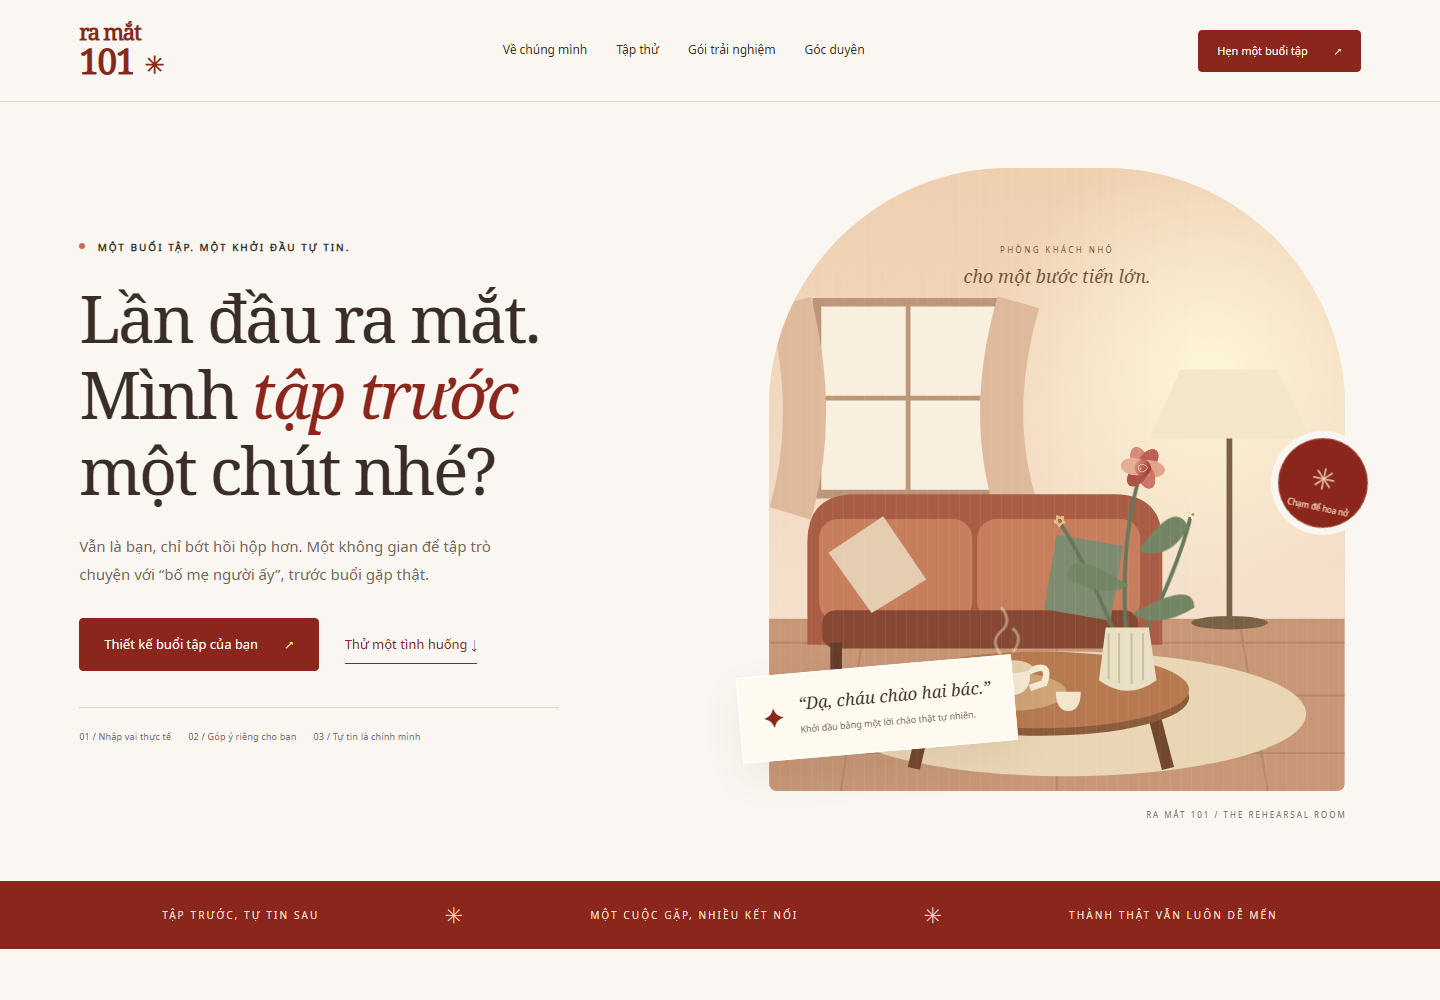
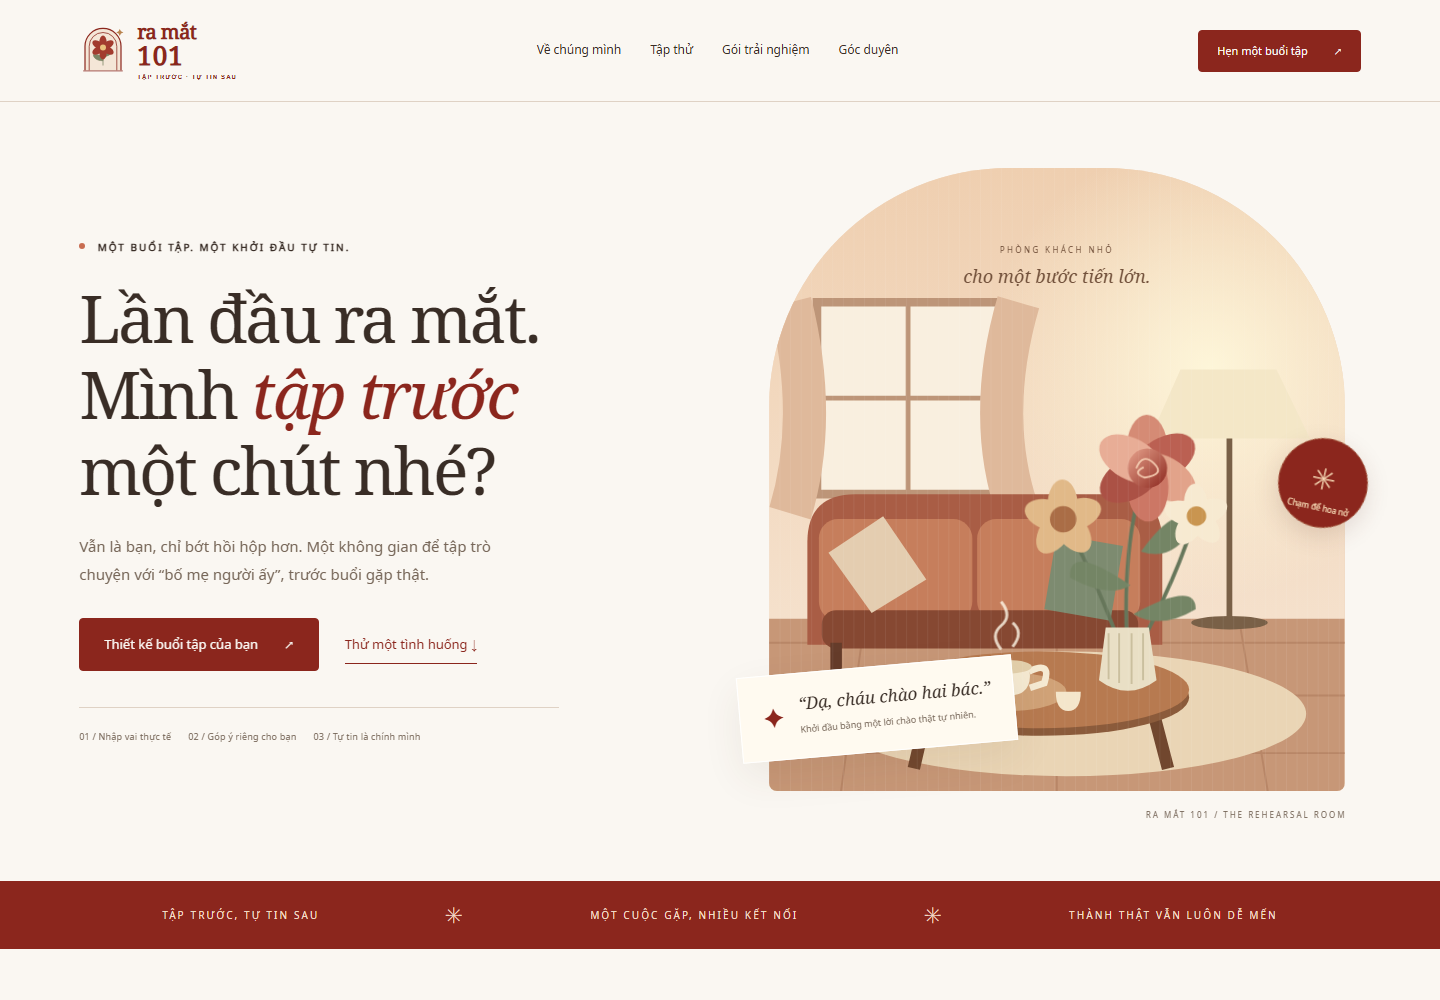
Refine floral brand identity and accessible interface motion

diff --git a/index.html b/index.html
@@ -1,7 +1,7 @@
 <!doctype html>
-<html lang="vi"><head><meta charset="utf-8"><meta name="viewport" content="width=device-width,initial-scale=1"><meta name="theme-color" content="#8b261d"><title>Ra Mắt 101 — Tập trước, tự tin sau</title><meta name="description" content="Tập ra mắt gia đình người yêu với kịch bản cá nhân hóa, diễn viên nhập vai và coaching. Khám phá buổi tập cùng Ra Mắt 101."><link rel="icon" href="assets/flower.svg" type="image/svg+xml"><link rel="stylesheet" href="style.css"><script type="module" src="app.js"></script></head>
+<html lang="vi"><head><meta charset="utf-8"><meta name="viewport" content="width=device-width,initial-scale=1"><meta name="theme-color" content="#8b261d"><title>Ra Mắt 101 — Tập trước, tự tin sau</title><meta name="description" content="Tập ra mắt gia đình người yêu với kịch bản cá nhân hóa, diễn viên nhập vai và coaching. Khám phá buổi tập cùng Ra Mắt 101."><link rel="icon" href="assets/brand-mark.svg" type="image/svg+xml"><link rel="stylesheet" href="style.css"><link rel="stylesheet" href="polish.css"><script type="module" src="app.js"></script></head>
 <body><a class="skip" href="#main">Đến nội dung chính</a>
-<header class="header"><a class="brand" href="#" aria-label="Ra Mắt 101 — trang đầu">ra mắt<span>101<span class="brand-flower">✳</span></span></a><nav aria-label="Điều hướng chính"><a href="#cau-chuyen">Về chúng mình</a><a href="#trai-nghiem">Tập thử</a><a href="#goi-tap">Gói trải nghiệm</a><a href="#goc-nho">Góc duyên</a></nav><a class="button small" href="#lien-he">Hẹn một buổi tập <span>↗</span></a><button class="menu" aria-label="Mở menu" aria-expanded="false">☰</button></header>
+<header class="header"><a class="brand" href="#" aria-label="Ra Mắt 101 — trang đầu"><img class="brand-mark" src="assets/brand-mark.svg" alt="" width="48" height="53"><span class="brand-wordmark">ra mắt<span>101<small>TẬP TRƯỚC · TỰ TIN SAU</small></span></span></a><nav aria-label="Điều hướng chính"><a href="#cau-chuyen">Về chúng mình</a><a href="#trai-nghiem">Tập thử</a><a href="#goi-tap">Gói trải nghiệm</a><a href="#goc-nho">Góc duyên</a></nav><a class="button small" href="#lien-he">Hẹn một buổi tập <span>↗</span></a><button class="menu" aria-label="Mở menu" aria-expanded="false">☰</button></header>
 <main id="main">
 <section class="hero" aria-labelledby="hero-title"><div class="hero-copy"><p class="eyebrow"><span class="dot"></span> MỘT BUỔI TẬP. MỘT KHỞI ĐẦU TỰ TIN.</p><h1 id="hero-title">Lần đầu ra mắt.<br>Mình <em>tập trước</em><br>một chút nhé?</h1><p class="lead">Vẫn là bạn, chỉ bớt hồi hộp hơn. Một không gian để tập trò chuyện với “bố mẹ người ấy”, trước buổi gặp thật.</p><div class="actions"><button class="button" data-book="standard">Thiết kế buổi tập của bạn <span>↗</span></button><a class="text-link" href="#trai-nghiem">Thử một tình huống <span>↓</span></a></div><div class="hero-notes"><span>01 / Nhập vai thực tế</span><span>02 / Góp ý riêng cho bạn</span><span>03 / Tự tin là chính mình</span></div></div>
 <div class="hero-art"><div class="art-arch"><div class="art-label">PHÒNG KHÁCH NHỎ<br><b>cho một bước tiến lớn.</b></div><svg class="room" viewBox="0 0 600 650" role="img" aria-label="Minh họa phòng khách ấm áp, bộ ấm trà và bình hoa đang nở"><defs><linearGradient id="wall" x2="0" y2="1"><stop stop-color="#efcfb0"/><stop offset="1" stop-color="#f7e7d6"/></linearGradient><linearGradient id="petal" x2="1" y2="1"><stop stop-color="#e7a38d"/><stop offset="1" stop-color="#8b261d"/></linearGradient><pattern id="lines" width="11" height="11" patternUnits="userSpaceOnUse"><path d="M0 0V11" stroke="#ffffff" stroke-opacity=".15"/></pattern><radialGradient id="light"><stop stop-color="#fff9dc" stop-opacity=".9"/><stop offset="1" stop-color="#fff9dc" stop-opacity="0"/></radialGradient></defs><rect width="600" height="650" fill="url(#wall)"/><circle cx="460" cy="210" r="240" fill="url(#light)"/><path d="M50 140h190v200H50z" fill="#f9efdf" stroke="#bd9578" stroke-width="9"/><path d="M145 140v200M50 240h190" stroke="#bd9578" stroke-width="5"/><path d="M22 140q30 120 0 220M260 140q-35 120 0 220" stroke="#dfb99b" stroke-width="45" fill="none"/><path d="M0 470h600v180H0" fill="#c79777"/><path d="M0 495h600M0 550h600M0 610h600M100 470l-25 180M300 470v180M490 470l30 180" stroke="#b88667" stroke-width="2"/><ellipse cx="310" cy="569" rx="250" ry="65" fill="#ead5b5"/><path d="M40 390q0-50 50-50h270q50 0 50 50v107H40z" fill="#a95d45"/><rect x="52" y="366" width="160" height="106" rx="20" fill="#c67e5c"/><rect x="217" y="366" width="170" height="106" rx="20" fill="#c67e5c"/><rect x="55" y="461" width="330" height="40" rx="15" fill="#864832"/><path d="M70 495v40M365 495v40" stroke="#653c2a" stroke-width="12"/><path d="M62 401l57-38 45 66-57 35z" fill="#e4cdb0"/><path d="M300 382l69 12-13 78-69-12z" fill="#7d8b70"/><path d="M480 260v210" stroke="#796047" stroke-width="6"/><path d="M429 210h100l35 72H397z" fill="#f4e7c7"/><ellipse cx="480" cy="474" rx="40" ry="7" fill="#796047"/><path d="M166 561l-15 65M399 561l17 65" stroke="#71472e" stroke-width="13"/><ellipse cx="283" cy="552" rx="155" ry="40" fill="#8b5b3b"/><ellipse cx="283" cy="544" rx="155" ry="40" fill="#b77a50"/><ellipse cx="251" cy="546" rx="59" ry="20" fill="#d0a277"/><path d="M226 520h45q6 30-22 30t-23-30" fill="#f5ead2"/><path d="M271 525q24-12 16 12l-15 5" stroke="#f5ead2" stroke-width="7" fill="none"/><ellipse cx="249" cy="520" rx="25" ry="7" fill="#e3d0ac"/><path d="M299 546h26q0 20-13 20t-13-20" fill="#f4e6cb"/><path d="M187 545h25q0 20-12 20t-13-20" fill="#f4e6cb"/><g class="steam" fill="none" stroke="#fff9e9" stroke-width="3" opacity=".8"><path d="M242 508q-12-15 0-25t0-25"/><path d="M254 505q12-15 0-25"/></g><g class="botanical"><path d="M375 522q-10-130 20-210M375 520q-45-120-70-155M375 520q55-100 70-160" fill="none" stroke="#66765a" stroke-width="4"/><path d="M377 435q-65-45-63-8 40 22 63 8M388 400q40-55 53-24-20 35-53 24M380 465q65-35 65-5-37 22-65 5" fill="#748565"/><g class="flower flower-one" transform="translate(395 313)"><g class="bloom"><ellipse rx="22" ry="37" transform="rotate(0) translate(0 -20)" fill="#d58b75"/><ellipse rx="22" ry="37" transform="rotate(60) translate(0 -20)" fill="#bb6052"/><ellipse rx="22" ry="37" transform="rotate(120) translate(0 -20)" fill="#e2a38a"/><ellipse rx="22" ry="37" transform="rotate(180) translate(0 -20)" fill="#cc7765"/><ellipse rx="22" ry="37" transform="rotate(240) translate(0 -20)" fill="#ab5145"/><ellipse rx="22" ry="37" transform="rotate(300) translate(0 -20)" fill="#e8ad96"/><circle r="21" fill="url(#petal)"/><path d="M-12 0q7-17 19-5t-10 15q-14-5-1-11" fill="none" stroke="#f2c7ac" stroke-width="2"/></g></g><g class="flower flower-two" transform="translate(307 366) scale(.72)"><g class="bloom" fill="#e1b988"><ellipse rx="23" ry="40" transform="rotate(0) translate(0 -20)"/><ellipse rx="23" ry="40" transform="rotate(72) translate(0 -20)"/><ellipse rx="23" ry="40" transform="rotate(144) translate(0 -20)"/><ellipse rx="23" ry="40" transform="rotate(216) translate(0 -20)"/><ellipse rx="23" ry="40" transform="rotate(288) translate(0 -20)"/><circle r="20" fill="#aa6d46"/></g></g><g class="flower flower-three" transform="translate(446 363) scale(.62)"><g class="bloom" fill="#f7ead1"><ellipse rx="22" ry="40" transform="rotate(0) translate(0 -20)"/><ellipse rx="22" ry="40" transform="rotate(72) translate(0 -20)"/><ellipse rx="22" ry="40" transform="rotate(144) translate(0 -20)"/><ellipse rx="22" ry="40" transform="rotate(216) translate(0 -20)"/><ellipse rx="22" ry="40" transform="rotate(288) translate(0 -20)"/><circle r="18" fill="#c99550"/></g></g></g><path d="M351 479h45l8 55q-30 22-60 0z" fill="#e9dfc5"/><path d="M354 485v48M365 485v52M378 485v53M390 485v49" stroke="#cabf9e" stroke-width="2"/><rect width="600" height="650" fill="url(#lines)" pointer-events="none"/></svg></div><div class="floating-note"><span>✦</span><p>“Dạ, cháu chào hai bác.”<small>Khởi đầu bằng một lời chào thật tự nhiên.</small></p></div><button class="bloom-button" id="bloom-again" aria-label="Cho hoa nở lại">✳ <span>Chạm để hoa nở</span></button><span class="art-index">RA MẮT 101 / THE REHEARSAL ROOM</span></div></section>

diff --git a/polish.css b/polish.css
@@ -1,0 +1,39 @@
+/* Original doorway-and-flower identity and restrained motion. */
+.brand{display:flex;align-items:center;gap:10px;min-width:150px;text-decoration:none}
+.brand .brand-mark{width:48px;height:53px;flex:none;transition:transform .3s ease}
+.brand>.brand-wordmark{font-size:20px;line-height:1.05;letter-spacing:-.6px}
+.brand-wordmark>span{display:block;font-size:26px;letter-spacing:1px}
+.brand-wordmark small{display:block;font-family:Arial,sans-serif;font-size:6px;letter-spacing:1.1px;margin-top:5px}
+.brand:hover .brand-mark{transform:rotate(-5deg)}
+.header nav a{position:relative}
+.header nav a::after{content:"";position:absolute;left:0;right:0;bottom:-7px;height:1px;background:currentColor;transform:scaleX(0);transform-origin:left;transition:transform .22s ease}
+.header nav a:hover::after,.header nav a:focus-visible::after{transform:scaleX(1)}
+.button{transition:transform .2s ease,background .2s ease,box-shadow .2s ease}
+.button:active{transform:scale(.97)}
+.price-card,.persona{transition:transform .3s cubic-bezier(.16,1,.3,1),box-shadow .3s ease,border-color .2s ease}
+.price-card:hover{transform:translateY(-5px);box-shadow:0 18px 35px -25px #54291d66}
+.persona[aria-pressed=true] .portrait{transform:scale(1.07)}
+.portrait{transition:transform .25s ease}
+.card-back{box-shadow:0 14px 28px #0003;outline:1px solid #c5a67577;outline-offset:-9px}
+.card-symbol{border:1px solid #c5a67566;border-radius:50%;width:64px;height:64px;display:grid;place-items:center;margin:16px auto;background:#ffffff05}
+.reveal{transition-duration:.8s;transition-timing-function:cubic-bezier(.16,1,.3,1);transition-delay:var(--reveal-delay,0ms)}
+.bloom-button{box-shadow:0 8px 24px #5a2b2326;transition:transform .3s ease}
+.bloom-button:hover{transform:rotate(8deg) scale(1.04)}
+@keyframes welcome-in{from{opacity:0;transform:translateY(16px)}to{opacity:1;transform:translateY(0)}}
+@keyframes room-in{from{opacity:0;transform:translateY(20px) scale(.97)}to{opacity:1;transform:none}}
+@keyframes dialog-in{from{opacity:0;transform:translateY(10px) scale(.985)}to{opacity:1;transform:none}}
+@media(prefers-reduced-motion:no-preference){
+body:not(.motion-paused) .hero-copy>*{animation:welcome-in .8s cubic-bezier(.16,1,.3,1) both}
+body:not(.motion-paused) .hero-copy>h1{animation-delay:.08s}
+body:not(.motion-paused) .hero-copy>.lead{animation-delay:.16s}
+body:not(.motion-paused) .hero-copy>.actions{animation-delay:.24s}
+body:not(.motion-paused) .hero-copy>.hero-notes{animation-delay:.3s}
+body:not(.motion-paused) .hero-art{animation:room-in 1s cubic-bezier(.16,1,.3,1) both}
+body:not(.motion-paused) dialog[open]{animation:dialog-in .22s ease-out both}
+body:not(.motion-paused) .faq details[open]>p{animation:welcome-in .23s ease-out both}
+}
+.motion-paused .hero-copy>*,.motion-paused .hero-art{animation:none!important;opacity:1;transform:none}
+.motion-paused .brand-mark,.motion-paused .button,.motion-paused .price-card,.motion-paused .persona,.motion-paused .portrait,.motion-paused .bloom-button{transition:none!important;transform:none!important}
+@media(prefers-reduced-motion:reduce){.brand-mark,.button,.price-card,.persona,.portrait,.bloom-button{transition:none!important;transform:none!important}.reveal{transition-delay:0s}}
+@media(max-width:720px){.brand{min-width:105px;gap:6px}.brand .brand-mark{width:34px;height:40px}.brand>.brand-wordmark{font-size:16px}.brand-wordmark>span{font-size:21px}.brand-wordmark small{font-size:4.5px;letter-spacing:.6px}.header{gap:7px}.header>.button{padding:10px;font-size:9px}.menu{padding:6px}}
+.brand{flex-direction:row;justify-content:flex-start}.brand-wordmark{text-align:left}

diff --git a/app.js b/app.js
@@ -38,3 +38,6 @@ $('#booking-body').innerHTML=html;$('#booking-prev').hidden=step===0;$('#booking
 if(step===0)$$('input[name=pkg]').forEach(r=>r.onchange=()=>{collect();renderBooking()});if(step===3)$$('#booking-body input,#booking-body select').forEach(el=>el.addEventListener('change',()=>{collect();$('#estimate').textContent='Tạm tính '+money(quote().total)}));if(step===5)$('#download-request').onclick=()=>download(payloadText(),'Ra-Mat-101-yeu-cau-tu-van.txt');}
 $('#booking-prev').onclick=()=>{collect();step=Math.max(0,step-1);renderBooking();$('#booking-dialog').scrollTop=0};
 $('#booking-form').onsubmit=e=>{e.preventDefault();collect();const p=packages[booking.pkg];let error='';if(step===1&&(booking.parents.length<1||booking.parents.length>p.personas))error=`Gói này cho phép chọn từ 1 đến ${p.personas} phong cách phụ huynh.`;if(step===2&&(booking.scenarios.length<1||booking.scenarios.length>p.scenarios))error=`Gói này cho phép chọn từ 1 đến ${p.scenarios} tình huống.`;if(step===3&&(!booking.date||booking.date<today()))error='Hãy chọn ngày mong muốn từ hôm nay trở đi.';if(step===4&&(booking.name.length<2||booking.worries.length<20||!booking.consent))error='Vui lòng điền tên, ít nhất 20 ký tự về điều bạn muốn tập và xác nhận đồng ý liên hệ.';if(error){$('#booking-error').textContent=error;return}if(step<5){step++;renderBooking();$('#booking-dialog').scrollTop=0;$('#booking-body').setAttribute('tabindex','-1');$('#booking-body').focus()}};
+
+// Stagger sibling cards without delaying unrelated sections.
+for (const group of document.querySelectorAll('.prices,.personas,.journey-steps')) { [...group.children].forEach((card,index)=>card.style.setProperty('--reveal-delay', (index * 70) + 'ms')); }
